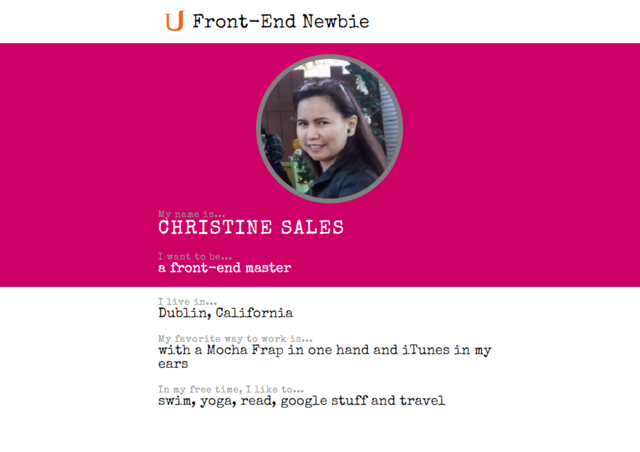
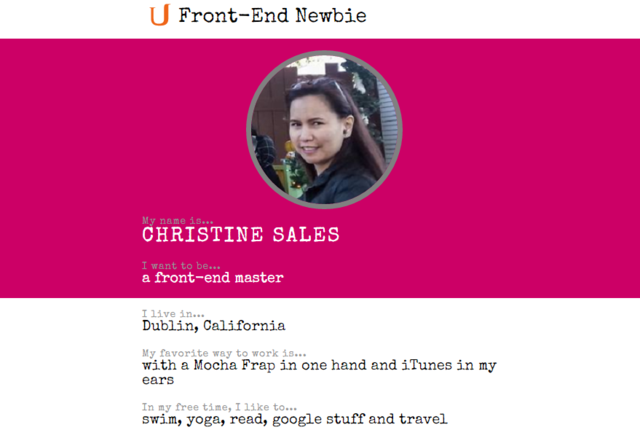
Update color, background, font and layout

Changed region(s): [[0.0, 0.0, 1.0, 0.9795]]

diff --git a/css/style.min.css b/css/style.min.css
@@ -1,1 +1,1 @@
-.title-info,body{margin:auto;background-size:cover}.title-super,h3{font-weight:bolder;text-transform:uppercase}.projimgs,.row,hr{width:100%}.projimgs,.title-info,h3,img{text-align:center}*{box-sizing:border-box}.row{display:flex;flex-wrap:wrap}.presentproj,img{align-items:center}body{min-width:300px;font-family:Orbitron,sans-serif;color:rgba(0,0,0,.5);background-image:url(backgroundpage3.png)}.container{max-width:1000px;margin:auto}img{transition:width .5s;margin:auto;box-shadow:4px 4px 4px #888}a{color:rgba(0,0,0,.75);font-weight:bolder;min-height:48px}#header{justify-content:center}.title-logo{border:none;box-shadow:none;margin:auto;justify-content:center;align-items:center}.col-md-2{margin:auto}.title-info{color:rgba(255,255,255,1);text-shadow:3px 3px 3px #aaa;background-image:linear-gradient(to right,rgba(0,0,0,0),rgba(102,56,38,.32),rgba(0,0,0,0))}.title-super{margin-top:30px;font-size:6em}.handle{letter-spacing:1em}.specialty{letter-spacing:.5em}hr{height:12px;box-shadow:inset 0 12px 12px -12px rgba(0,0,0,.5)}.presentproj{padding:10px}.projimgs{padding-top:20px;display:block;height:100%;align-items:center;vertical-align:middle;justify-content:center}figcaption{padding-top:5px;font-size:10px;font-style:italic}p{text-align:justify;padding-top:1em}@media screen and (max-width:449px){body{background-image:linear-gradient(to bottom,rgba(102,56,38,.32),rgba(0,0,0,0),rgba(0,0,0,0))}.title-logo{height:15vw;min-height:45px;margin-top:10px}.title-info{width:100%;min-height:115px;text-shadow:1px 1px 1px rgba(0,0,0,.5);background-image:linear-gradient(to right,rgba(0,0,0,0),rgba(0,0,0,0),rgba(0,0,0,0))}.title-super,h1,h3{font-size:1.5em;letter-spacing:.08em;margin-top:20px}.handle,.specialty{font-size:1em;letter-spacing:.2em;margin-top:10px}hr{display:none}}@media screen and (min-width:450px) and (max-width:599px){.title-logo{width:18vw}.title-super{font-size:1.75em}.handle{font-size:1em;letter-spacing:.5em;margin-top:10px}.specialty{font-size:1em;letter-spacing:.1em;margin-bottom:2em}hr{display:none}h1,h3{font-size:1.5em}.col-md-6{width:85%;margin:auto}}@media screen and (min-width:600px) and (max-width:799px){.title-logo{width:15vw}.title-super,h1{font-size:2.5em}.handle{font-size:1.5em;letter-spacing:.5em;margin-top:10px}.specialty{letter-spacing:.15em;margin-bottom:2em}hr{display:none}h1,h3{font-size:1.75em}.col-md-6{width:50%;margin:auto}}@media screen and (min-width:800px) and (max-width:999px){.title-logo{width:15vw}.title-super{font-size:3em}.handle{font-size:1.5em;letter-spacing:.5em;margin-top:10px}.specialty{letter-spacing:.15em;margin-bottom:2em}hr{display:none}.col-md-6{width:50%;margin:auto}.projimgs{max-width:50vw}}@media screen and (min-width:1000px){.title-super{font-size:5em}hr{margin-top:0}.projimgs{max-width:50vw}}
+a,h3{font-weight:bolder}.cajon,.col-md-2,.title-info,.title-logo,body,img{margin:auto}.title-super,h3{text-transform:uppercase}.linea,.projimgs,hr{width:100%}.projimgs,.title-info,h3,img{text-align:center}*{box-sizing:border-box}.linea{display:flex;flex-wrap:wrap}.presentproj,img{align-items:center}body{min-width:300px;font-family:Roboto,sans-serif;color:#555;background-color:#9ecfe7;background-image:url(@jinglebot.png),url(@jinglebot.png),url(@jinglebot.png);background-repeat:no-repeat,no-repeat,no-repeat;animation:animatedBackground 90s linear infinite alternate;-webkit-animation:animatedBackground 90s linear infinite alternate}@keyframes animatedBackground{from{background-position:75vw 5vh,100vw 40vh,-100vw 50vh}to{background-position:-100vw 45vh,-100vw 120vh,100vw 150vh}}img{transition:width .5s;border-radius:25px;position:center;background-repeat:no-repeat;border:1px solid #aaa;box-shadow:3px 3px 3px #888}a{color:#f64;text-shadow:1px 1px 1px #888;min-height:48px;letter-spacing:.07em}#header{justify-content:center;background:linear-gradient(to right,rgba(0,0,0,0),rgba(102,56,38,.5),rgba(0,0,0,0))}.title-logo{border:none;box-shadow:none;justify-content:center;align-items:center}.title-info{color:#fff;text-shadow:3px 3px 3px #888}.title-super{margin-top:30px;font-size:5em;font-weight:700;letter-spacing:.025em}.handle{letter-spacing:1em}.specialty{letter-spacing:.5em}.fw-title{color:#f63;text-shadow:2px 2px 2px #888;letter-spacing:.125em}hr{height:12px;box-shadow:inset 0 12px 12px -12px #888}.presentproj{padding:10px}.projimgs{display:block;align-items:center;vertical-align:middle;justify-content:center}figcaption{padding-top:5px;font-size:10px;font-style:italic}p{text-align:justify;padding-top:1em}.css-validator{border:0;border-radius:0;width:88px;height:31px}@media screen and (max-width:449px){body{background-size:40vh}.title-logo{height:15vw;min-height:45px;margin-top:10px}.title-info{width:100%;min-height:115px;text-shadow:1px 1px 1px #333;background-image:linear-gradient(to right,rgba(0,0,0,0),rgba(0,0,0,0),rgba(0,0,0,0))}.title-super,h1,h3{font-size:1.5em;letter-spacing:.08em;margin-top:20px}.handle,.specialty{font-size:1em;letter-spacing:.2em;margin-top:10px}hr{display:none}}@media screen and (min-width:450px) and (max-width:599px){.title-logo{width:18vw}.title-super{font-size:1.75em}.handle{font-size:1em;letter-spacing:.5em;margin-top:10px}.specialty{font-size:1em;letter-spacing:.1em;margin-bottom:2em}hr{display:none}h1,h3{font-size:1.5em}.col-md-3{width:85%;margin:auto}}@media screen and (min-width:600px) and (max-width:799px){.title-logo{width:15vw}.title-super,h1{font-size:2.5em}.handle{font-size:1.5em;letter-spacing:.5em;margin-top:10px}.specialty{letter-spacing:.15em;margin-bottom:2em}hr{display:none}h1,h3{font-size:1.75em}.col-md-3{width:50%;margin:auto}}@media screen and (min-width:800px) and (max-width:999px){.title-logo{width:15vw}.title-super{font-size:3em}.handle{font-size:1.5em;letter-spacing:.5em;margin-top:10px}.specialty{letter-spacing:.15em;margin-bottom:2em}hr{display:none}.col-md-3{width:50%;margin:auto}.projimgs{max-width:50vw}}@media screen and (min-width:1000px){.title-super{font-size:6em}hr{margin-top:0}.projimgs{max-width:50vw}.col-md-3{width:25%;margin:auto}}

diff --git a/mypage.html b/mypage.html
@@ -5,9 +5,9 @@
     <meta http-equiv="X-UA-Compatible" content="IE=edge">
     <meta name="viewport" content="width=device-width, initial-scale=1">
     <title>My Portfolio</title>
-    <link href="https://fonts.googleapis.com/css?family=Orbitron" rel="stylesheet">
+    <link href="https://fonts.googleapis.com/css?family=Roboto:400,900,500,400italic,700" rel="stylesheet">
     <link rel="stylesheet" href="css/bootstrap.min.css">
-    <link rel="stylesheet" href="css/style.css">
+    <link rel="stylesheet" href="css/style.min.css">
   </head>
 
   <body>
@@ -42,30 +42,31 @@
 
 <!--     Featured Work Title -->
       <div class="row linea">
-        <div class="col-md-12">
+        <div class="col-md-12 fw-title">
           <h1>Featured Work</h1>
         </div>
       </div>
 
 <!--       Featured Work 1  -->
       <div class="row linea presentproj">
-        <div class="col-md-6">
-          <img class="img-responsive projimgs cover" src="images/AboutMeOrig-large.png" srcset="images/AboutMeOrig-small.png 320w, images/AboutMeOrig-large.png 640w, images/AboutMeOrig-large_x2.png 1024w" sizes="(max-width: 449px) 100vw, ((min-width: 450px) and (max-width: 599px)) 85vw, 50vw" alt="AboutMe" data-toggle="modal" data-target="#about">
+        <div class="col-md-3">
+          <img class="img-responsive projimgs cover"
+            src="images/AboutMeOrig-large.png" srcset="images/AboutMeOrig-small.png 320w, images/AboutMeOrig-large.png 640w, images/AboutMeOrig-large_x2.png 1024w" sizes="(max-width: 449px) 100vw, ((min-width: 450px) and (max-width: 599px)) 85vw, 50vw" alt="AboutMe" data-toggle="modal" data-target="#about">
           <h3>
             <a href="https://github.com/jinglebot/FE-Project-0">About Me</a>
           </h3>
         </div>
 
 <!--       Featured Work 2  -->
-        <div class="col-md-6">
-          <img class="img-responsive projimgs cover" src="images/myportfolio-large.png" srcset="images/myportfolio-small.png 320w, images/myportfolio-large.png 640w, images/myportfolio-large_x2.png 1024w" sizes="(max-width: 449px) 100vw, ((min-width: 450px) and (max-width: 599px)) 85vw, 50vw" alt="Portfolio" data-toggle="modal" data-target="#portfolio">
+        <div class="col-md-3">
+          <img class="img-responsive projimgs cover" src="images/myportfolio2-large.png" srcset="images/myportfolio2-small.png 320w, images/myportfolio2-large.png 640w, images/myportfolio2-large_x2.png 1024w" sizes="(max-width: 449px) 100vw, ((min-width: 450px) and (max-width: 599px)) 85vw, 50vw" alt="Portfolio" data-toggle="modal" data-target="#portfolio">
           <h3>
             <a href="https://github.com/jinglebot/MyPortfolio">My Portfolio</a>
           </h3>
         </div>
 
 <!--       Featured Work 3  -->
-        <div class="col-md-6">
+        <div class="col-md-3">
           <img class="img-responsive projimgs cover" src="images/placeimghere-large.png" srcset="images/placeimghere-small.png 320w, images/placeimghere-large.png 640w, images/placeimghere-large_x2.png 1024w" sizes="(max-width: 449px) 100vw, ((min-width: 450px) and (max-width: 599px)) 85vw, 50vw" alt="Resume" data-toggle="modal" data-target="#resume">
           <h3>
             <a href="https://github.com/jinglebot?tab=repositories">Resume</a>
@@ -73,7 +74,7 @@
         </div>
 
 <!--       Featured Work 4  -->
-        <div class="col-md-6">
+        <div class="col-md-3">
           <img class="img-responsive projimgs cover" src="images/GenerateBinaryCode2-large.png" srcset="images/GenerateBinaryCode2-small.png 320w, images/GenerateBinaryCode2-large.png 640w, images/GenerateBinaryCode2-large_x2.png 1024w" sizes="(max-width: 449px) 100vw, ((min-width: 450px) and (max-width: 599px)) 85vw, 50vw" alt="Programs" data-toggle="modal" data-target="#programs">
           <h3>
             <a href="https://github.com/jinglebot?tab=repositories">C++ Programs</a>
@@ -115,7 +116,7 @@
           </div>-
           <div class="modal-body">
             <figure>
-              <img class="img-responsive" src="images/portlayout-large.png" srcset="images/portlayout-small.png 320w, images/portlayout-large.png 640w, images/portlayout-large_x2.png 1024w" sizes="100vw" alt="Portfolio">
+              <img class="img-responsive" src="images/portlayout2-large.png" srcset="images/portlayout2-small.png 320w, images/portlayout2-large.png 640w, images/portlayout2-large_x2.png 1024w" sizes="100vw" alt="Portfolio">
               <figcaption>My portfolio, a continuous evolution</figcaption>
             </figure>
             <p>My portfolio is written using HTML5, CSS and Javascript. I used Grunt with plug-ins like responsive-images, uglify and Imagemagick. My portfolio will be updated from time to time for the other projects I'll be working on.</p>

diff --git a/css/style.css b/css/style.css
@@ -11,14 +11,21 @@
 body {
 	min-width: 300px;
 	margin: auto;
-	font-family: "Orbitron", sans-serif;
+	font-family: 'Roboto', sans-serif;
 	color: #555;
-	background-image: url(backgroundpage3.png);
-	background-size: cover;
+	background-color: #9ecfe7;
+	background-image: url(@jinglebot.png), url(@jinglebot.png), url(@jinglebot.png);
+	background-repeat: no-repeat, no-repeat, no-repeat;
+	animation: animatedBackground 90s linear infinite alternate;
+	-webkit-animation: animatedBackground 90s linear infinite alternate;
+}
+
+@keyframes animatedBackground {
+	from { background-position: 75vw 5vh, 100vw 40vh,-100vw 50vh; }
+	to { background-position: -100vw 45vh, -100vw 120vh, 100vw 150vh; }
 }
 
 .cajon {
-	max-width: 1000px;
 	margin: auto;
 }
 
@@ -27,7 +34,11 @@ img {
 	text-align: center;
 	align-items: center;
 	margin: auto;
-	box-shadow: 4px 4px 4px #888;
+	border-radius: 25px;
+	position: center;
+	background-repeat: no-repeat;
+	border: 1px solid #aaa;
+	box-shadow: 3px 3px 3px #888;
 }
 
 h3 {
@@ -37,15 +48,18 @@ h3 {
 }
 
 a {
-	color: #333;
+	color: #f64;
+	text-shadow: 1px 1px 1px #888;
 	font-weight: bolder;
 	min-height: 48px;
+	letter-spacing: 0.07em;
 }
 
 /* Header */
 
 #header {
 	justify-content: center;
+	background: linear-gradient(to right, rgba(0, 0, 0, 0), rgba(102, 56, 38, 0.5), rgba(0, 0, 0, 0));
 }
 
 .title-logo {
@@ -65,14 +79,13 @@ a {
 	text-align: center;
 	color: #fff;
 	text-shadow: 3px 3px 3px #888;
-	background-image: linear-gradient(to right, rgba(0, 0, 0, 0), rgba(102, 56, 38, 0.32), rgba(0, 0, 0, 0));
-	background-size: cover;
 }
 
 .title-super {
 	margin-top: 30px;
-	font-size: 6em;
-	font-weight: bolder;
+	font-size: 5em;
+	font-weight: 700;
+	letter-spacing: 0.025em;
 	text-transform: uppercase;
 }
 
@@ -82,6 +95,12 @@ a {
 
 .specialty {
 	letter-spacing: 0.5em;
+}
+
+.fw-title {
+	color: #f63;
+	text-shadow: 2px 2px 2px #888;
+	letter-spacing: 0.125em;
 }
 
 /* from https://css-tricks.com/examples/hrs/ */
@@ -99,10 +118,8 @@ hr {
 }
 
 .projimgs {
-	padding-top: 20px;
 	display: block;
 	width: 100%;
-	height: 100%;
 	text-align: center;
 	align-items: center;
 	vertical-align: middle;
@@ -122,6 +139,7 @@ p {
 
 .css-validator {
 	border: 0;
+	border-radius: 0;
 	width: 88px;
 	height: 31px;
 }
@@ -131,7 +149,7 @@ p {
 @media screen and (max-width: 449px) {
 
 	body {
-		background-image: linear-gradient(to bottom, rgba(102, 56, 38, 0.32), rgba(0, 0, 0, 0), rgba(0, 0, 0, 0));
+		background-size: 40vh;
 	}
 
 	.title-logo {
@@ -199,7 +217,7 @@ p {
 		font-size: 1.5em;
 	}
 
-	.col-md-6 {
+	.col-md-3 {
 		width: 85%;
 		margin: auto;
 	}
@@ -237,7 +255,7 @@ p {
 		font-size: 1.75em;
 	}
 
-	.col-md-6 {
+	.col-md-3 {
 		width: 50%;
 		margin: auto;
 	}
@@ -269,7 +287,7 @@ p {
 		display: none;
 	}
 
-	.col-md-6 {
+	.col-md-3 {
 		width: 50%;
 		margin: auto;
 	}
@@ -283,7 +301,7 @@ p {
 @media screen and (min-width: 1000px) {
 
 	.title-super {
-		font-size: 5em;
+		font-size: 6em;
 	}
 
 	hr {
@@ -292,6 +310,11 @@ p {
 
 	.projimgs {
 		max-width: 50vw;
+	}
+
+	.col-md-3 {
+		width: 25%;
+		margin: auto;
 	}
 
 }

diff --git a/Gruntfile.js b/Gruntfile.js
@@ -49,6 +49,6 @@ module.exports = function(grunt) {
 
   grunt.loadNpmTasks('grunt-responsive-images');
   grunt.loadNpmTasks('grunt-contrib-cssmin');
-  grunt.registerTask('default', ['cssmin']);
+  grunt.registerTask('default', ['responsive_images', 'cssmin']);
 
 };
